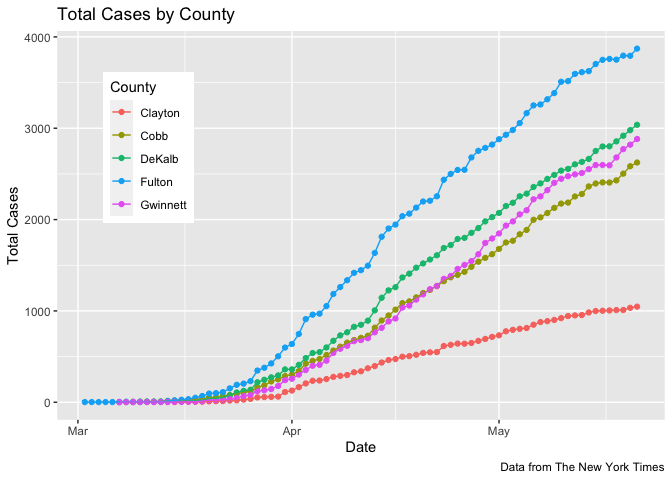
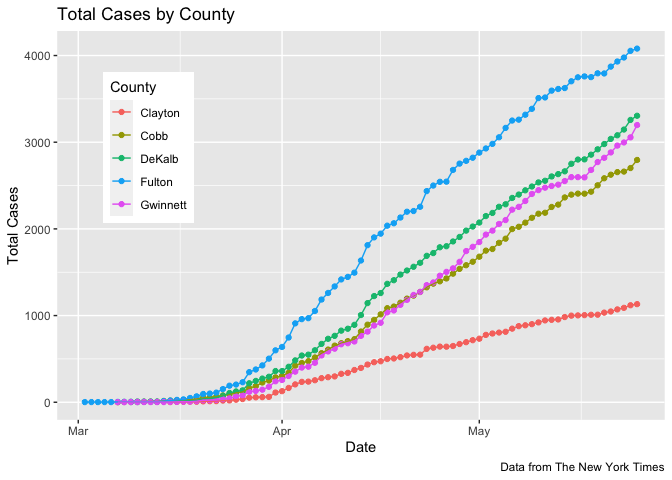
Updated data

diff --git a/Metro_Atlanta_COVID.md b/Metro_Atlanta_COVID.md
@@ -16,7 +16,7 @@ It’s hard to know how to interpret these numbers since there are major
 known unknowns. Neither confirmed cases nor deaths can be said to be
 reliable counts of the true numbers.
 
-Data current as of May 22,
+Data current as of May 26,
 2020.
 
 # Metro Atlanta
